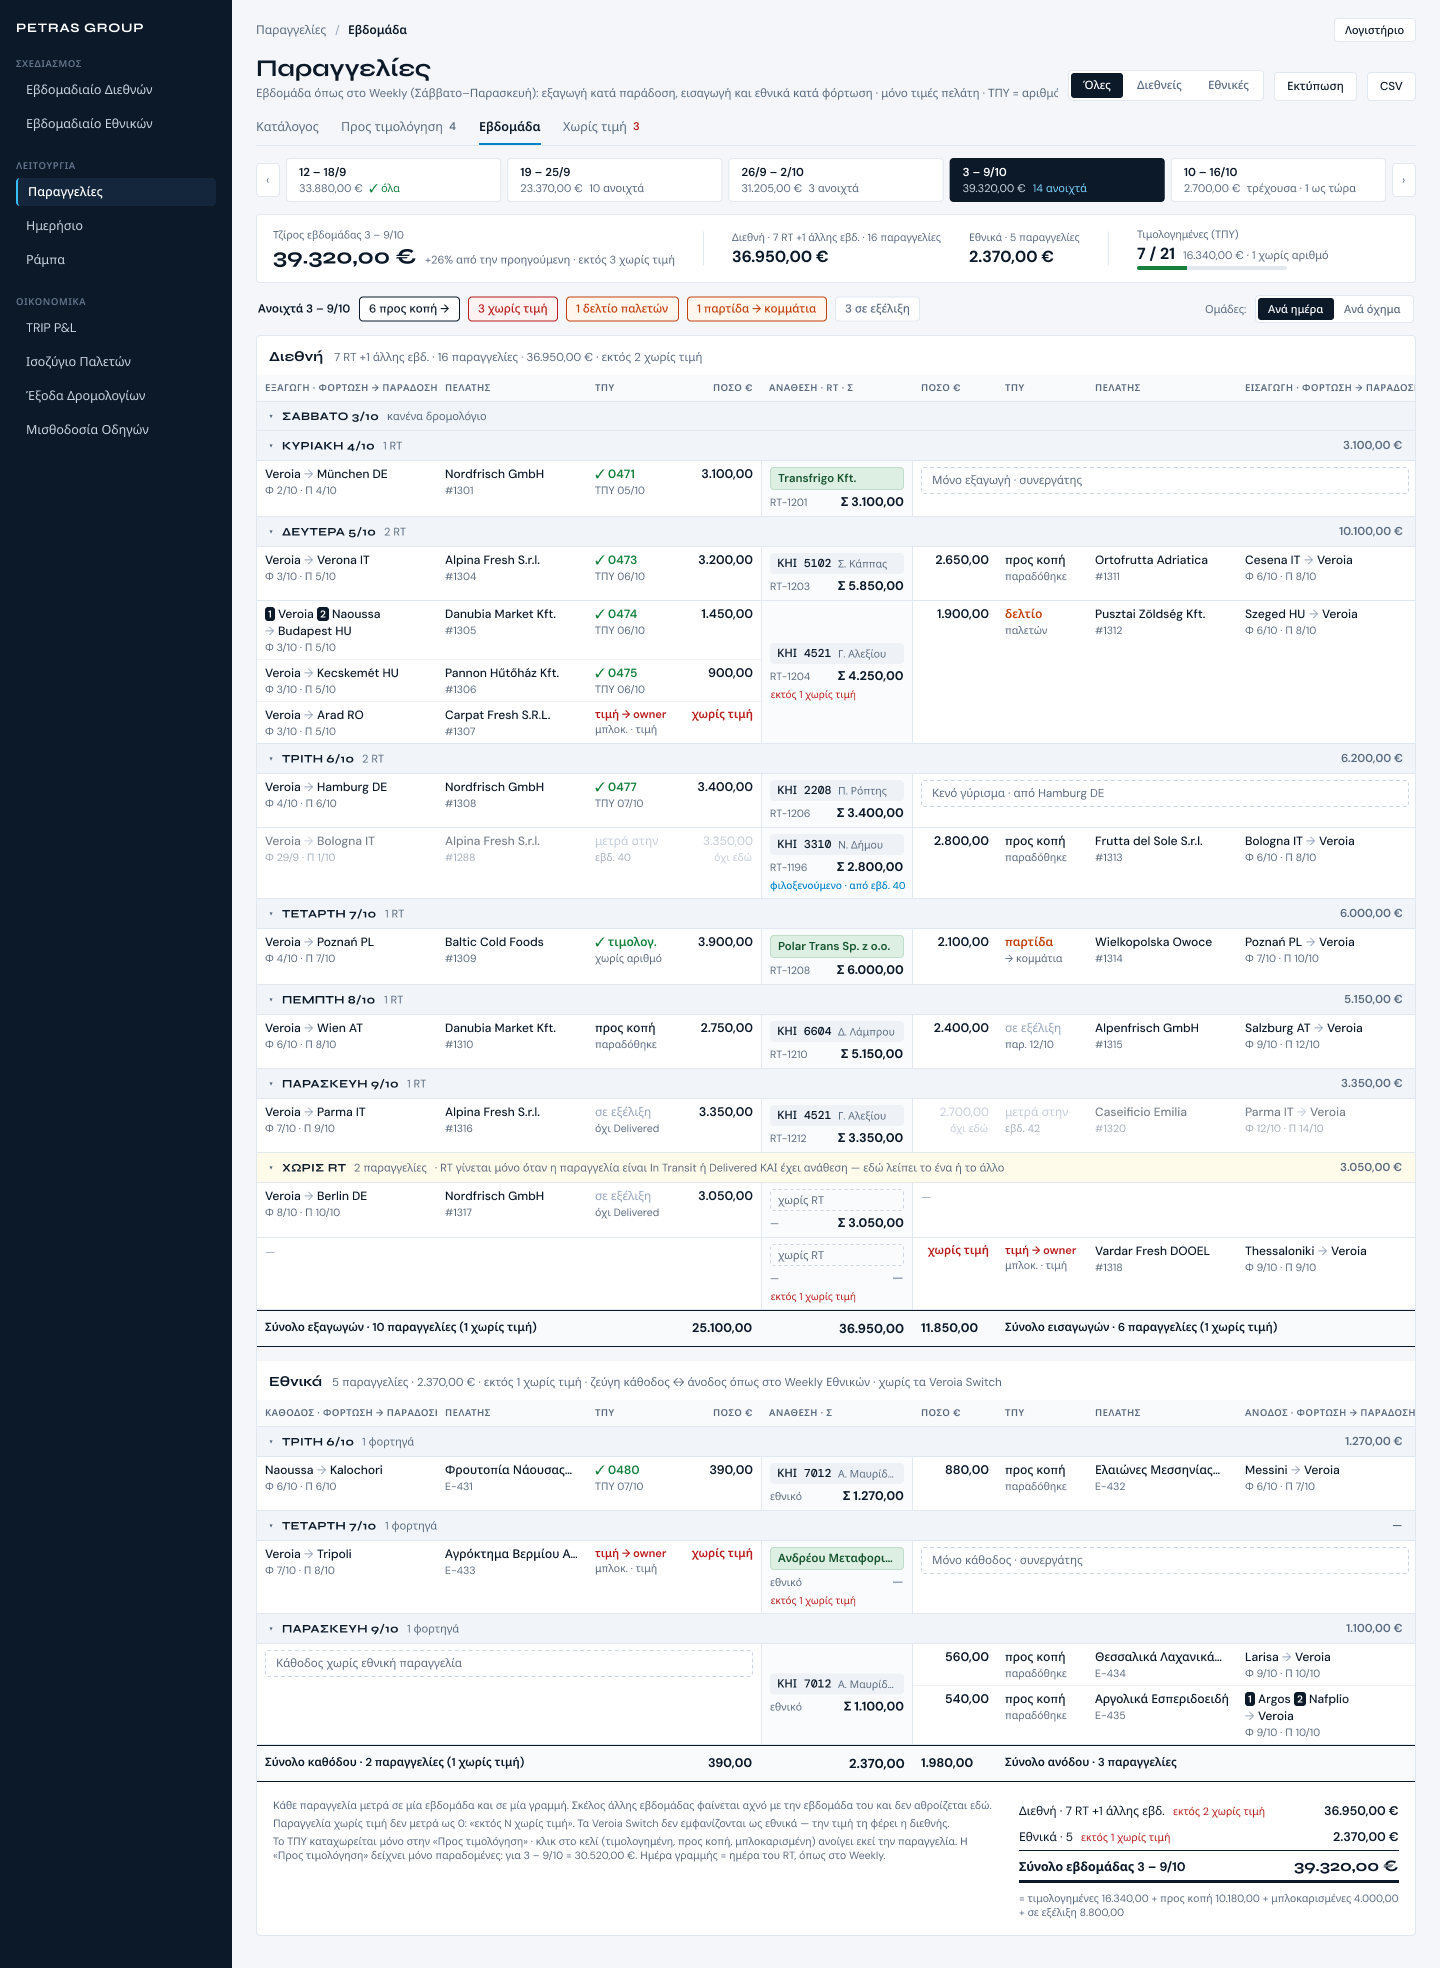
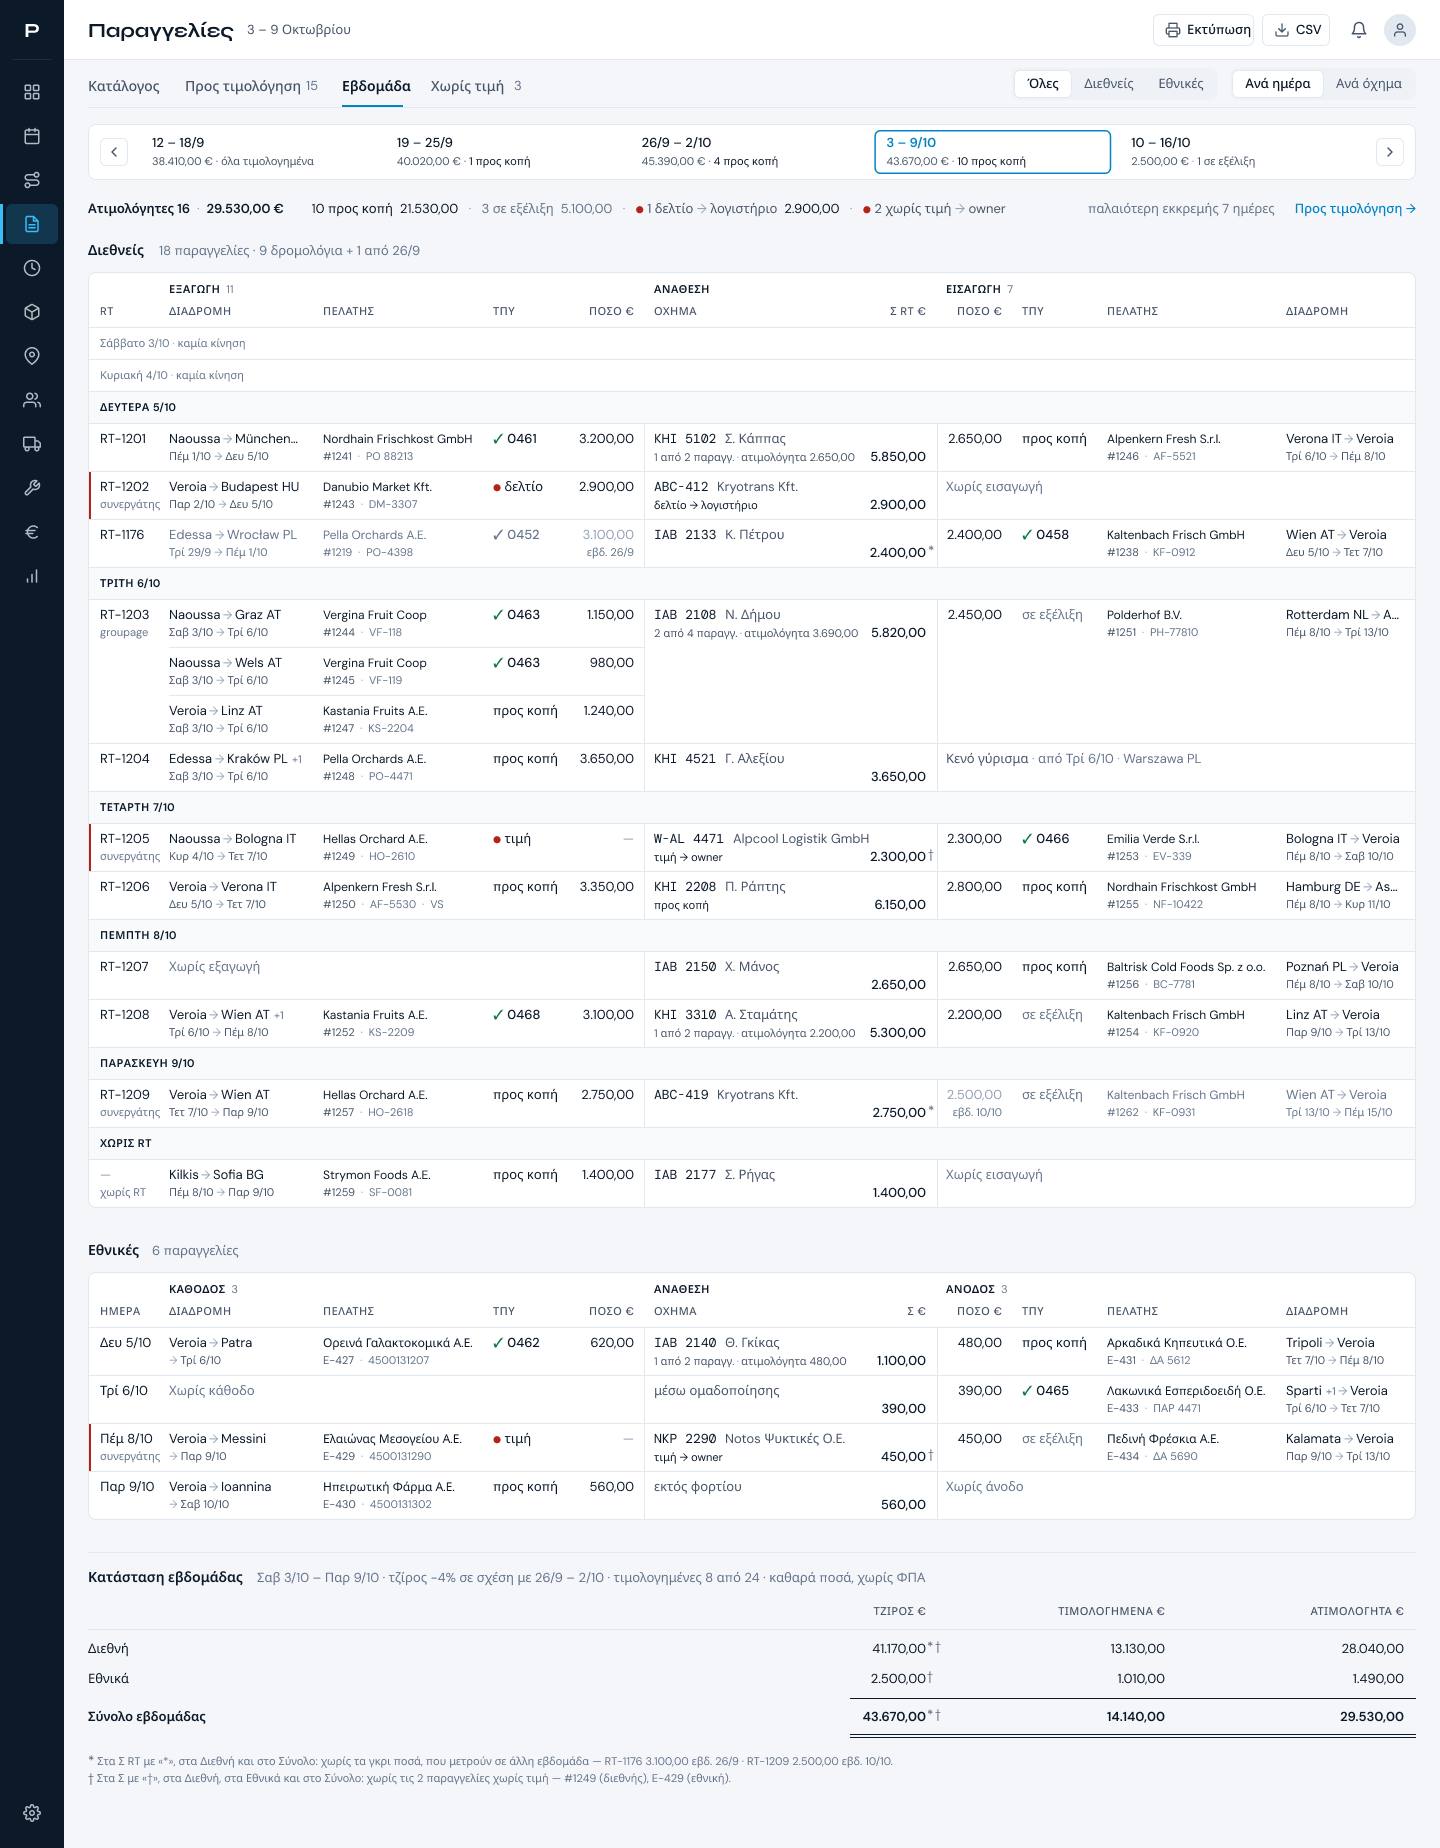
docs: Παραγγελίες › Εβδομάδα v4 — εγκρίθηκε από owner (13/10)· εγκεκριμένο σχέδιο 1514:8013 αντί του παράλληλου
- DECISION_LOG: η εγγραφή 12/10 έγινε εγγραφή έγκρισης 13/10 με το σχέδιο που
  ενέκρινε ο owner (σελίδα 1514:8013): καθαρά ποσά χωρίς ΦΠΑ, «ατιμολόγητα»,
  ποτέ παρενθέσεις, εθνικές σε χωριστή ενότητα. Το παράλληλο σχέδιο στη σελίδα
  «Screens» σημειώνεται «δεν επιλέχθηκε»· τα 3 ευρήματα κώδικα του κριτή του
  κρατήθηκαν.
- SESSION.md: In flight και Log ενημερωμένα.
- shots 01–03: οι εικόνες του εγκεκριμένου σχεδίου (επινοημένα δεδομένα).

diff --git a/docs/SESSION.md b/docs/SESSION.md
@@ -20,7 +20,7 @@
 - Weekly International v4 fixes (`fix/wi4-*`): Dimitris.
 - Session rules and this file (`docs/session-rules`): Valuedriven.
 - Importing the Valuedriven backend, tests and CI into this repo: Valuedriven, PR planned this week.
-- Orders › «Εβδομάδα» v4 (one row = one RT), Figma only (`design/orders-week-v4`): waiting for Dimitris's approval, no code.
+- Orders › «Εβδομάδα» v4 (one row = one RT): design APPROVED 13/10 (Figma page `1514:8013`); implementation not started, next session.
 
 **Do not touch**
 - GROUPAGE LINES are never deleted, only set to `Unassigned`.
@@ -31,12 +31,11 @@
 
 ## Log
 
-### 2026-10-12 · Orders › Εβδομάδα v4 design (Figma only)
-- Figma frames on «Screens» (y ≈ 47.500): 1440 `1510:9821`, 1920 `1510:10624`, states `1513:9821`, today ↔ new `1513:10538`. Images in `docs/orders-week-v4/shots/`.
-- Row = RT, mirrored like Weekly v4: export | ΑΝΑΘΕΣΗ (RT · Σ) | import. Per-order amount and ΤΠΥ; nationals in a separate section, paired κάθοδος ↔ άνοδος by `Matched Load`.
-- Decided (Claude, owner to confirm): the ΤΠΥ column uses the code's states (προς κοπή, σε εξέλιξη and the rest) instead of one «χωρίς ΤΠΥ». Critic round 1: accounting 7/10, data truth 5/10; every critical and important finding fixed.
-- Found, not design: `orders_week_view.js:9-11` comment is false (invoicing shows delivered only); the 0 € rule differs between Εβδομάδα and Προς τιμολόγηση. Both need an owner decision.
-- Left: owner approval before any code. Details in `docs/DECISION_LOG.md` (12/10, Orders › Εβδομάδα v4).
+### 2026-10-13 · Orders › Εβδομάδα v4 design approved
+- Owner approved the design on Figma page `1514:8013` (1440 `1518:8013`, 1920 `1518:9099`, states `1519:8013`); images in `docs/orders-week-v4/shots/`.
+- Row = RT, mirrored like Weekly v4; nationals in a separate section; net amounts only (no VAT); «ατιμολόγητα», never parentheses.
+- The parallel design on «Screens» (`1510:9821`…) was not chosen; its critic's code findings are kept in `docs/DECISION_LOG.md`.
+- Left: owner decision on the 0 € rule; implementation in a new session (branch + PR).
 
 ### 2026-10-12 · on-site day 1 · session rules and this file
 - Added ΚΑΝΟΝΕΣ SESSION at the top of `CLAUDE.md`, this file, and `AGENTS.md` (points Codex to `CLAUDE.md`).
